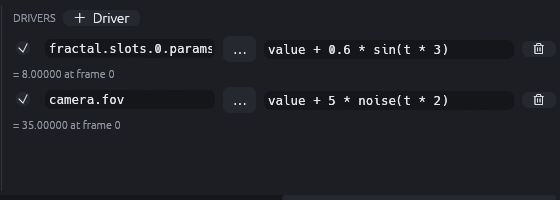
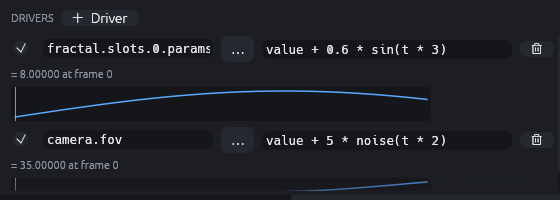
Show a curve of each driver over the animation
The timeline draws every enabled driver's value over the whole
animation (sampled frames, computed when the animation changes) with
the current frame marked.

diff --git a/crates/rmb-app/src/timeline.rs b/crates/rmb-app/src/timeline.rs
@@ -39,11 +39,13 @@ pub struct Timeline {
     /// Sound analysis running in the background (file, result).
     audio_job: Option<(String, std::sync::mpsc::Receiver<Result<rmb_core::audio::AudioLevels, String>>)>,
     audio_message: Option<String>,
+    /// Driven values over the animation, per driver (sampled frames), for the curve view.
+    driver_curves: Option<(Animation, Vec<Vec<f64>>)>,
 }
 
 impl Default for Timeline {
     fn default() -> Self {
-        Timeline { open: false, frame: 0, playing: false, play_pos: 0.0, last_tick: None, previewing: false, selected: None, plan: None, driver_filter: String::new(), audio_job: None, audio_message: None }
+        Timeline { open: false, frame: 0, playing: false, play_pos: 0.0, last_tick: None, previewing: false, selected: None, plan: None, driver_filter: String::new(), audio_job: None, audio_message: None, driver_curves: None }
     }
 }
 
@@ -196,6 +198,24 @@ impl Timeline {
         // The driven scene at the current frame (for the drivers' values).
         let cur = self.frame;
         let driven = if anim.drivers.is_empty() { None } else { self.plan(&anim).and_then(|p| serde_json::to_value(p.scene_at(cur)).ok()) };
+        // The driven values over the whole animation (only when the animation changed).
+        if !anim.drivers.is_empty() && self.driver_curves.as_ref().is_none_or(|(a, _)| *a != anim) {
+            let paths: Vec<String> = anim.drivers.iter().map(|d| d.path.trim().to_string()).collect();
+            let curves = self.plan(&anim).map(|p| {
+                let n = p.frame_count();
+                let samples = n.clamp(1, 60);
+                let mut out = vec![Vec::with_capacity(samples); paths.len()];
+                for k in 0..samples {
+                    let f = if samples > 1 { k * (n - 1) / (samples - 1) } else { 0 };
+                    let v = serde_json::to_value(p.scene_at(f)).unwrap_or_default();
+                    for (c, path) in out.iter_mut().zip(&paths) {
+                        c.push(rmb_core::animation::value_at(&v, path).unwrap_or(f64::NAN));
+                    }
+                }
+                out
+            });
+            self.driver_curves = curves.map(|c| (anim.clone(), c));
+        }
         let mut a = anim.clone();
         egui::ScrollArea::horizontal().show(ui, |ui| {
             ui.horizontal_top(|ui| {
@@ -272,8 +292,9 @@ impl Timeline {
             return;
         }
         let (_, compile_errors) = compile_drivers(&a.drivers);
+        let frames = self.plan.as_ref().and_then(|(_, p)| p.as_ref().ok()).map_or(1, |p| p.frame_count());
         let mut remove = None;
-        egui::ScrollArea::vertical().id_salt("drivers").max_height(150.0).show(ui, |ui| {
+        egui::ScrollArea::vertical().id_salt("drivers").max_height(200.0).show(ui, |ui| {
             for (i, d) in a.drivers.iter_mut().enumerate() {
                 ui.horizontal(|ui| {
                     ui.checkbox(&mut d.enabled, "").on_hover_text("Driver on or off");
@@ -309,6 +330,9 @@ impl Timeline {
                     _ => (String::new(), theme::TEXT_MUTED),
                 };
                 ui.label(RichText::new(text).size(theme::fs(11.0)).color(color));
+                if let Some(curve) = self.driver_curves.as_ref().and_then(|(_, c)| c.get(i)).filter(|c| d.enabled && c.iter().any(|v| v.is_finite())) {
+                    driver_curve(ui, curve, self.frame, frames);
+                }
             }
         });
         if let Some(i) = remove {
@@ -579,3 +603,21 @@ fn audio_levels_ui(&mut self, ui: &mut Ui, a: &mut Animation, base: Option<&std:
     });
 }
 }
+
+/// A driver's value over the animation as a small curve, with the current frame marked.
+fn driver_curve(ui: &mut Ui, curve: &[f64], frame: usize, frames: usize) {
+    let (rect, resp) = ui.allocate_exact_size(vec2(420.0, 34.0), Sense::hover());
+    let painter = ui.painter_at(rect);
+    painter.rect_filled(rect, 3.0, theme::BG);
+    let finite: Vec<f64> = curve.iter().copied().filter(|v| v.is_finite()).collect();
+    let (lo, hi) = finite.iter().fold((f64::MAX, f64::MIN), |(a, b), v| (a.min(*v), b.max(*v)));
+    let span = (hi - lo).max(1e-12);
+    let n = curve.len().max(2) - 1;
+    let pt = |k: usize, v: f64| pos2(rect.left() + 4.0 + (rect.width() - 8.0) * k as f32 / n as f32, rect.bottom() - 4.0 - (rect.height() - 8.0) * ((v - lo) / span) as f32);
+    let line: Vec<egui::Pos2> = curve.iter().enumerate().filter(|(_, v)| v.is_finite()).map(|(k, v)| pt(k, *v)).collect();
+    painter.add(egui::Shape::line(line, egui::Stroke::new(1.5, theme::ACCENT)));
+    let x = rect.left() + 4.0 + (rect.width() - 8.0) * frame as f32 / (frames.max(2) - 1) as f32;
+    painter.line_segment([pos2(x, rect.top()), pos2(x, rect.bottom())], egui::Stroke::new(1.0, theme::TEXT_MUTED));
+    resp.on_hover_text(format!("From {lo:.4} to {hi:.4} over the animation; the line marks the current frame"));
+}
+

diff --git a/TODO.md b/TODO.md
@@ -204,7 +204,8 @@ Features the two programs have that RMandelbulb3D does not have yet, in the plan
       Mandelbulber `scripts`
   - [x] Audio-reactive variables: audio, bass, mid, treble (levels 0..1 from the sound track,
         analysed once with ffmpeg and stored in the animation; `audio.rs`)
-  - [ ] Possible: drivers outside animations (stills), a curve view of a driver over time
+  - [x] Curve view of each driver's value over the animation (timeline)
+  - [ ] Possible: drivers outside animations (stills)
 - [x] Kleinian DE and inside rendering (see Formula editing above)
 - [x] Compared with MB3D's own Monte Carlo renderer (`mb3d/CalcMonteCarlo.pas`, 2026-11-24):
       it branches at every hit (direct light, mirror, refraction and one cosine ambient ray),

diff --git a/docs/manual/14-animation.md b/docs/manual/14-animation.md
@@ -138,7 +138,8 @@ keyframes, in the preview, the export, the render queue and network renders.
 Click **+ Driver** in the **DRIVERS** column of the timeline (scroll the settings to the
 right), choose the value with **…** (type to search: *power*, *fov*, *fog* …) and write the
 expression. Below each driver its value at the current frame shows, or what is wrong with the
-expression.
+expression, and a curve of the value over the whole animation (the line marks the current
+frame; hover over it for the range).
 
 | In an expression | Meaning |
 |------------------|---------|
